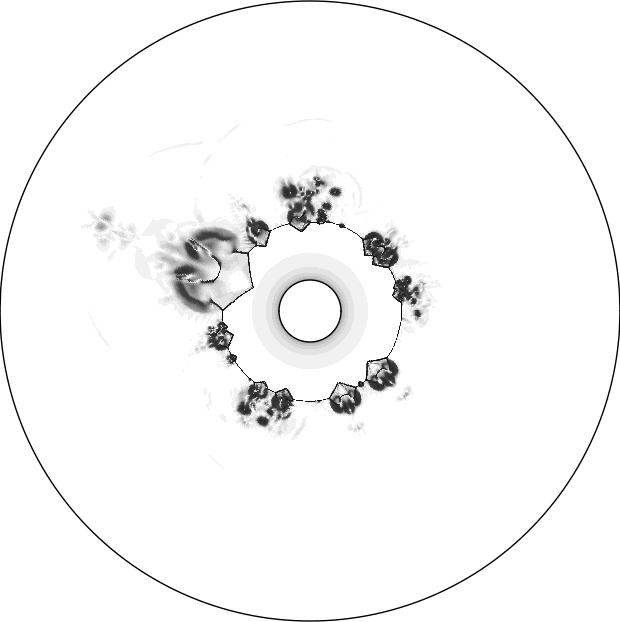
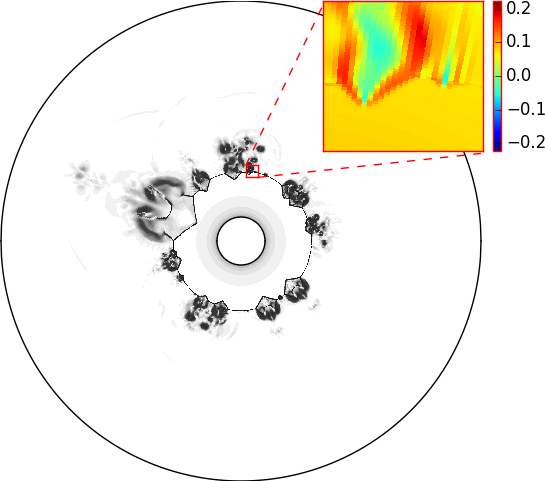
update paper (not finished yet)

diff --git a/numerics_paper/version2/numerical_chj.tex b/numerics_paper/version2/numerical_chj.tex
@@ -190,7 +190,6 @@ The system \eqref{eq:sw} can be written in vector form as
     q_t + f(q)_x + g(q)_y & = 0.
 \end{align}
 
-
 In this work we study the behavior of certain shock-capturing finite volume
 methods based on the use of Riemann solvers.  For simplicity, we discuss these
 solvers in the context of a 1-dimensional problem and mesh.  
@@ -215,7 +214,7 @@ Upon defining $z^+:=\frac{1}{2}(z+|z|)$ and $z^-:=\frac{1}{2}(z-|z|)$,
 the fluctuations are given by
 \begin{align}\label{fluct}
   \apdq_\imh := \sum_p\left(s_{i-1/2}^p\right)^+\W_{i-1/2}^p, \qquad
-  \amdq_\iph := \sum_p\left(s_{i+1/2}^p\right)^-\W_{i+1/2}^p, \\
+  \amdq_\iph := \sum_p\left(s_{i+1/2}^p\right)^-\W_{i+1/2}^p, 
 \end{align}
 and represent the effect (to first
 order accuracy) of waves coming from the solution of the Riemann problem at
@@ -257,7 +256,7 @@ Both of these solvers satisfy the conservation property
 
 
 \subsection{Rusanov's Riemann solver}\label{sec:rusanov}
-The Rusanov solver approximates the Riemann solution by with a single wave traveling in each
+The Rusanov's solver approximates the Riemann solution by with a single wave traveling in each
 direction.  Both waves are assumed to travel with speed $\lambda^{\max}_\imh$, which is an
 upper bound on the wave speeds appearing in the true solution of the Riemann problem.
 In this work, we take $\lambda_{i-1/2}^{\max}$ to be the upper bound
@@ -315,13 +314,13 @@ and $\W_{i-1/2}^{p,\Roe}=\alpha_{i-1/2}^p\hat r_{i-1/2}^p$, with
 \end{align*}
 and the factors $\alpha^p_\imh$ obtained by solving
 \begin{align}\label{system_for_alphas}
-  \left[\hat \bfr^1_{i-1/2} ~\hat \bfr^2_{i-1/2} ~\hat \bfr^3_{i-1/2}\right]
+  \sum_p\W_{i-1/2}^{p,\Roe} = \left[\hat \bfr^1_{i-1/2} ~\hat \bfr^2_{i-1/2} ~\hat \bfr^3_{i-1/2}\right]
   \begin{bmatrix}
     \alpha^1_{i-1/2} \\
     \alpha^2_{i-1/2} \\
     \alpha^3_{i-1/2}
   \end{bmatrix}
-  =\Delta Q_{i-1/2}:=q_i-q_{i-1}.
+  =\Delta Q_{i-1/2}:=\bfq_i-\bfq_{i-1}.
 \end{align}
 
 \subsection{HLLEMCC Riemann solver} \label{sec:kemm}
@@ -338,11 +337,11 @@ may need to be tuned for a specific problem.  We will consider this method
 in the numerical tests below.
 
 
-\section{An entropy-based blending of Rusanov and Roe}
+\section{An entropy-based blending of Rusanov and Roe}\label{sec:blended_rs}
 
 As we discussed in the introduction, finite volume methods that use a
 Roe Riemann solver are prone to exhibit the carbuncle instability.
-In contrast, methods that use a Rusanov Riemann solver exhibit no carbuncles. 
+In contrast, methods that use Rusanov's Riemann solver exhibit no carbuncles. 
 However, such methods tend to dissipate other important physical features of
 the solution, unless the grid is highly refined.
 In this section we propose a Riemann solver
@@ -505,12 +504,12 @@ to that of Roe.
 In fact, with the choice \eqref{s_p}, the correction fluxes also match
 those of Rusanov or Roe in the appropriate limit, as shown in the next section.
 
-\subsection{The correction fluxes}\label{sec:blended_rs}
+\subsection{The correction fluxes}
 In this section we explain the choice of wave speeds \eqref{s_p}.
 For the moment, we consider \eqref{blended-flux-1}-\eqref{lambda_p} without
 entropy stabilization; i.e. we set $\lambda^{\min}_\iph=0$
 for now.
-We use $\W^{p,\Rus}$ to denote the waves in the Rusanov
+We use $\W^{p,\Rus}$ to denote the waves in the Rusanov's
 solver and $\W^{p,\Roe}$ to denote the waves in the Roe solver.
 The first-order method given by \eqref{first-order_via_fluct} with the numerical
 flux \eqref{blended-flux-1} can also be written in
@@ -529,14 +528,14 @@ and we instead use \eqref{s_p}.
 Using this in \eqref{correction-fluxes} and \eqref{ev_fluctuations} in 
 \eqref{second-order_via_fluct}, we obtain (in the absence of limiting)
 the second-order scheme
-\begin{align*}
-  q_i^{n+1}=q_i^n
+\begin{align}\label{LWL}
+  \bfq_i^{n+1}=\bfq_i^n
   &-\frac{\Delta t}{2 \Delta x}
   \sum_p
   \left[\left(\hat\lambda_{i+1/2}^p -\frac{\Delta t}{\Delta x}(\lambda_{i+1/2}^p)^2 \right)\W_{i+1/2}^{p,\Roe}
   +
   \left(\hat\lambda_{i-1/2}^p +\frac{\Delta t}{\Delta x}(\lambda_{i-1/2}^p)^2 \right)\W_{i-1/2}^{p,\Roe}\right],
-\end{align*}
+\end{align}
 It is clear again that if $\theta_{i\pm 1/2}=0$ we recover the standard
 second-order Lax-Wendroff method based on Roe's Riemann solver.
 We now show that if $\theta_{i\pm 1/2}=1$, we recover the Lax-Wendroff method
@@ -549,7 +548,7 @@ To see this, first consider \eqref{rus_cons} and rewrite the right-going fluctua
   -\lambda_{i-1/2}^{\max}\W_{i-1/2}^{2,\Rus}.
   %\A^{+,\Rus}\Delta Q_{i-1/2}=\frac{1}{2}\sum_p\left(\hat \lambda_{i-1/2}^p + \lambda_{i-1/2}^{\max}\right)\W_{i-1/2}^p
 \end{align}
-From \eqref{system_for_alphas} and \eqref{rusanov_waves} we get
+From \eqref{rusanov_waves} and \eqref{system_for_alphas} we get
 $\W^{1,\Rus}_{i-1/2}+\W^{2,\Rus}_{i-1/2}=\bfq_i-\bfq_{i-1}=\sum_p\W_{i-1/2}^{p,\Roe}$.
 Using \eqref{rs_conservation} and \eqref{ev_fluctuations}, \eqref{rus_rs_aux} becomes
 \begin{align*}
@@ -559,7 +558,7 @@ Using \eqref{rs_conservation} and \eqref{ev_fluctuations}, \eqref{rus_rs_aux} be
 \end{align*}
 which implies that
 \begin{subequations}\label{fluct_rus}
-\begin{align}
+\begin{align} 
   \A^{+,\Rus}\Delta Q_{i-1/2}=\frac{1}{2}\sum_p\left(\hat \lambda_{i-1/2}^p + \lambda_{i-1/2}^{\max}\right)\W_{i-1/2}^{p,\Roe},
 \end{align}
 and similarly,
@@ -567,13 +566,16 @@ and similarly,
   \A^{-,\Rus}\Delta Q_{i+1/2}=\frac{1}{2}\sum_p\left(\hat \lambda_{i+1/2}^p - \lambda_{i+1/2}^{\max}\right)\W_{i+1/2}^{p,\Roe}.
 \end{align}
 \end{subequations}
-
+To get the second-order Lax-Wendroff method based on Rusanov's Riemann solver,
+plug the fluctuations \eqref{fluct_rus} into \eqref{second-order_via_fluct} where 
+$\tilde F_{i\pm 1/2}$ is given by \eqref{correction-fluxes} with $|s^p_{i\pm 1/2}|=\lambda_{i\pm 1/2}^{\max}$. 
+By doing this, we get \eqref{LWL} (since $\theta_{i\pm 1/2}=1 \implies \lambda_{i\pm 1/2}^p=\lambda_{i\pm 1/2}^{\max}$).
 
 \subsection{Entropy stabilization}\label{sec:entropy_stable}
 In the previous section we neglected the term $\lambda^{\min}_\iph$ in
-\eqref{blended-flux-1}.  In this section, we show how this term is computed,
-in order to guarantee local entropy stability of the scheme given by using
-\eqref{blended-flux-1} in \eqref{first-order_via_fluct}.
+\eqref{blended-flux-1}.  In this section, we follow \cite{kuzmin2020algebraic}
+and show how this term is computed, in order to guarantee local entropy stability
+of the scheme given by using \eqref{blended-flux-1} in \eqref{first-order_via_fluct}.
 
 Let $\entvar_i=\entvar(\bfq_i)$ and $\entflux_i=\entflux(\bfq_i)$ denote the entropy variable and the
 (one-dimensional) entropy flux at cell $i$, respectively.
@@ -594,7 +596,7 @@ where
 \end{align*}
 is the discrete entropy flux.
 
-After comparing \eqref{blended-flux-1} and the condition above, we arrive at the value
+After plugging \eqref{blended-flux-1} into the condition \eqref{es_cond}, we arrive at the value
 \begin{align}\label{lambda_min}
   \lambda_{i+1/2}^{\min} = \max\left\{0,\frac{\frac{1}{2}(\entvar_{i+1}-\entvar_{i})\cdot\left[\bff(\bfq_{i+1})+\bff(\bfq_{i})-\sum_p\lambda_{i+1/2}^p\W_{i+1/2}^p\right]-(\efp_{i+1}-\efp_i)}{\frac{1}{2}(\entvar_{i+1}-\entvar_{i})\cdot\sum_p\W_{i+1/2}^p}\right\}.
 \end{align}
@@ -649,26 +651,28 @@ $h_i$ is the cell average of the water height at cell $i$,
 and $h^e(\bfx_i)$ is the exact water height evaluated at the center of cell $i$.
 Since the methods under consideration are at most second order accurate, comparison
 of cell averages with centered point values is a sufficient way to test their accuracy.
+In all experiments we use $g=1$.
 
-We consider a total of six problems. We start in \S \ref{sec:rp_dry_bed} with a
+We consider a total of five problems. We start in \S \ref{sec:rp_dry_bed} with a
 one-dimensional Riemann problem over a dry bed.
 For this problem we use the first-order methods \eqref{first-order_via_fluct},
 to avoid negative depth values. Although only Rusanov's solver is proven to guarantee
 positivity, we do not get negative values for the water height with any of the first-order methods.
 In \S \ref{sec:rp_wet_bed} we apply the second-order methods to a dam-break problem
-with a wet bed.
+with a wet bed. This problem contains strong shocks. We observe similar accuracy with the
+blended solver or the Roe solver; this suggests that the extra numerical entropy
+dissipation that the blended solver introduces near the shocks does not degrade the accuracy
+of the underlying Roe solver. This extra dissipation, however, prevents the formation of carbuncles in other experiments,
+which we demonstrate in \S \ref{sec:bow_shock} and \S\ref{sec:2D_chj}.
 In \S \ref{sec:steady_outflow} we consider a one-dimensional problem with a smooth steady state solution. We observe the expected
 second-order accuracy of method \eqref{second-order_via_fluct} with Roe's and the blended solvers. Using
 Rusanov's Riemann solver degrades the accuracy to first-order. The overall accuracy of the blended solver
 is not degraded since the extra dissipation is not applied in smooth regions.
-In \S\ref{sec:rp_wet_bed} and \S\ref{sec:1D_chj} we consider one-dimensional problems with strong shocks. We observe similar accuracy with the
-blended solver or the Roe solver; this suggests that the numerical entropy
-dissipation near the shocks does not degrade the accuracy
-of the underlying Roe solver. This extra dissipation, however, prevents the formation of carbuncles in other experiments,
-which we demonstrate in \S \ref{sec:bow_shock} and \S\ref{sec:2D_chj}.
 The main focus of this work is in the formation of carbuncle instabilities in the two-dimensional CHJ. We present
 an extensive set of experiments for this problem in \S \ref{sec:2D_chj}.
-We consider not only Roe's, Rusanov's and the blended solvers, but also the HLLE solver and a solver proposed in \cite{kemm2014note},
+We consider not only Roe's, Rusanov's and the blended solvers,
+%but also the HLLE solver and a solver proposed in \cite{kemm2014note},
+but also the solver proposed in \cite{kemm2014note},
 which is designed to remove the carbuncle instabilities in the shallow water equations.
 
 \subsection{Dam break problem on a dry bed}\label{sec:rp_dry_bed}
@@ -685,7 +689,7 @@ The domain is given by $x\in(0,10)$, and the initial condition is $hu(x,0)=0$ an
     h_r & x >5,
   \end{cases}
 \end{align*}
-with $x_0=5$ and $h_l=5\times 10^{-3}$.  In our experiments we use $h_r=1\times
+with $h_l=5\times 10^{-3}$.  In our experiments we use $h_r=1\times
 10^{-15}$ to avoid division by zero.
 The exact solution, which can also be found in \cite{delestre2013swashes} and references therein, is
 \begin{align*}
@@ -698,13 +702,13 @@ The exact solution, which can also be found in \cite{delestre2013swashes} and re
 \quad
   u(x,t) =
   \begin{cases}
-    0, &\mbox{ if } x\leq x_-(t), \\
-    \frac{2}{3}\left(\sqrt{gh_l}+\frac{x-x_0}{t}\right), & \mbox{ if } x_-(t) < x\leq x_+(t), \\
-    0, &\mbox{ if } x_+(t)\leq x,
+    0, &\mbox{ if } x\leq x_A(t), \\
+    \frac{2}{3}\left(\sqrt{gh_l}+\frac{x-x_0}{t}\right), & \mbox{ if } x_A(t) < x\leq x_B(t), \\
+    0, &\mbox{ if } x_B(t) < x,
   \end{cases}
 \end{align*}
-with $x_-(t)=x_0 - t\sqrt{gh_l}$ and $x_+=x_0+2t\sqrt{gh_l}$.
-We take $g=1$ and solve the problem up to $t=10$.
+with $x_A(t)=x_0 - t\sqrt{gh_l}$ and $x_B=x_0+2t\sqrt{gh_l}$.
+We solve the problem up to $t=10$.
 In Figures \ref{fig:rp_dry_bed_roe}-\ref{fig:rp_dry_bed_blended},
 we show the solution using method \eqref{first-order_via_fluct}
 with Roe's solver, Rusanov's solver and the blended solver, respectively.
@@ -775,7 +779,7 @@ $hu(x,0)=0$ and
 \begin{align*}
   h(x,0) =
   \begin{cases}
-    h_l & x < x_0 \\
+    h_l & x \leq x_0 \\
     h_r & x > x_0
   \end{cases}
 \end{align*}
@@ -795,14 +799,14 @@ with $x_0=5$, $h_l=0.005$, and $h_r=0.001$.  The exact solution, which can be fo
     0, &\mbox{ if } x\leq x_A(t), \\
     \frac{2}{3}\left(\sqrt{gh_l}+\frac{x-x_0}{t}\right), & \mbox{ if } x_A(t) < x\leq x_B(t), \\
     2(\sqrt{gh_l}-c_m), & \mbox{ if } x_B(t)<x\leq x_C(t), \\
-    0, &\mbox{ if } x\leq x_C(t),
+    0, &\mbox{ if } x < x_C(t),
   \end{cases}
 \end{align*}
 where $x_A(t)=x_0-t\sqrt{gh_l}$, $x_B(t)=x_0+t\left(2\sqrt{gh_l}-3c_m\right)$,
 $x_C(t)=x_0+t\frac{2c_m^2\left(\sqrt{gh_l}-c_m\right)}{c_m^2-gh_r}$ and
 $c_m$ is the solution of
 $-8gh_rc_m^2\left(\sqrt{gh_l}-c_m\right)^2+\left(c_m^2-gh_r\right)^2\left(c_m^2+gh_r\right)=0$.
-We use $g=1$ and solve the problem up to the final time $t=5$ using the
+We solve the problem up to the final time $t=5$ using the
 second-order method \eqref{second-order_via_fluct}
 with Roe's, Rusanov's and the blended solvers. The solution with different refinement levels
 and each Riemann solver is shown in Figure \ref{fig:rp_wet_bed}.
@@ -921,8 +925,8 @@ Under rotational symmetry, the two-dimensional shallow water equations
 can be reduced to the system
 \begin{subequations} \label{eq:rsw}
 \begin{align}
-    (rh)_t + (rhu)_r & = 0 \label{mass1} \\
-    (rhu)_t + (rhu^2)_r + r \left(\frac{1}{2}gh^2\right)_r = 0, \label{mom1}
+    (rh)_t + (rhu)_r &= 0, \label{mass1} \\
+    (rhu)_t + (rhu^2)_r + r \left(\frac{1}{2}gh^2\right)_r &= 0, \label{mom1}
 \end{align}
 \end{subequations}
 where $r=\sqrt{x^2+y^2}$ is the radial coordinate.  Here we consider a problem
@@ -1014,29 +1018,30 @@ along with outflow conditions along the rest of the right edge of the domain.
 The depth and velocity are set initially and (for all time) at the other
 boundaries to $h_0=1$, $u_0=5$, for a Froude number of 5.  We use a $160 \times 400$
 uniform Cartesian grid.
-
-We show results at $t=80$, after the flow has reached
-a steady state.  With a Roe solver, negative values are generated at an early
+%
+In Figure \ref{fig:steady_outflow}, we show results at $t=80$, after the flow has reached
+a steady state.  With Roe's solver, negative values (of the water height) are generated at an early
 time, leading to failure of the solver.  Therefore, we show results only for
-HLLE, HLLEMCC, and the blended solver.  These three methods give very similar
+Rusanov's, HLLEMCC by \cite{kemm2014note}, and the blended solvers.  These three methods give very similar
 results.
 
 \begin{figure}[!h]
   {\scriptsize
-    \subfloat[HLLE Solver.]{\includegraphics[scale=0.4]{figures/cylinder_HLLE.png}}
+    %\subfloat[Rusanov's solver.]{\includegraphics[scale=0.4]{figures/cylinder_hlle.png}}
+    \subfloat[Rusanov's solver.]{\includegraphics[scale=0.4]{figures/cylinder_rusanov.png}}
     \quad \quad \quad \quad \quad \quad
-    \subfloat[HLLEMCC Solver.]{\includegraphics[scale=0.4]{figures/cylinder_HLLEMCC.png}}
+    \subfloat[HLLEMCC solver.]{\includegraphics[scale=0.4]{figures/cylinder_hllemcc.png}}
     \quad \quad \quad \quad \quad \quad
     \subfloat[Blended solver.]{\includegraphics[scale=0.4]{figures/cylinder_ES.png}}
   }
   \caption{
-    Flow past a cylinder.  Results for HLLE, HLLEMCC, and the blended solver.
+    Flow past a cylinder.  Results for Rusanov's, HLLEMCC, and the blended solvers.
     \label{fig:cylinder_flow}}
 \end{figure}
 
 We have also conducted a more challenging version of this test, in which
-the velocity within the domain is initially zero.  In that case, the HLLE
-and blended solvers give carbuncle-free results similar to Figure \ref{fig:steady_outflow},
+the velocity within the domain is initially zero.  In that case, Rusanov's 
+and the blended solvers give carbuncle-free results similar to Figure \ref{fig:steady_outflow},
 but HLLEMCC exhibits a carbuncle.
 
 \section{Numerical study of the circular hydraulic jump}
@@ -1160,7 +1165,7 @@ In Figure \ref{fig:chj_r1_roe}, we show the solution at different times using
 method \eqref{second-order_via_fluct} with Roe's Riemann solver.
 The solution clearly develops carbuncle instabilities.
 In Figure \ref{fig:chj_r1_diff}, we show solutions at $t=3$ for
-Rusanov's, Kemm's, and the blended Riemann solver.
+Rusanov's, HLLEMCC, and the blended Riemann solvers.
 For this test case, these three solvers give qualitatively similar solutions,
 all of which are free from carbuncles.
 %however, we expect Rusanov's solver to be less accurate. 
@@ -1169,24 +1174,24 @@ all of which are free from carbuncles.
   \centering
   \subfloat[Solution at (left) $t=1$, (middle) $t=1.5$ and (right) $t=3$ using Roe's Riemann solver.\label{fig:chj_r1_roe}]{
     \begin{tabular}{ccc} 
-      \includegraphics[scale=0.3]{figures/chj_r1_roe_p1.png} &
-      \includegraphics[scale=0.3]{figures/chj_r1_roe_p2.png} &
-      \includegraphics[scale=0.3]{figures/chj_r1_roe_p3.png}
+      \includegraphics[scale=0.38]{figures/chj_r1_roe_p1.png} &
+      \includegraphics[scale=0.38]{figures/chj_r1_roe_p2.png} &
+      \includegraphics[scale=0.38]{figures/chj_r1_roe_p3.png}
     \end{tabular}
   }
   
-  \subfloat[Solution at $t=3$ using (left) Rusanov's, (middle) Kemm's and (right) the blended solvers.\label{fig:chj_r1_diff}]{
+  \subfloat[Solution at $t=3$ using (left) Rusanov's, (middle) HLLEMCC and (right) the blended solvers.\label{fig:chj_r1_diff}]{
     \begin{tabular}{ccc}
-      \includegraphics[scale=0.3]{figures/chj_r1_llf_p3.png} &
-      \includegraphics[scale=0.5]{figures/cross.png} &
-      \includegraphics[scale=0.3]{figures/chj_r1_blended_p3.png}
+      \includegraphics[scale=0.38]{figures/chj_r1_llf_p3.png} &
+      \includegraphics[scale=0.38]{figures/chj_r1_hllemcc_p3.png} &
+      \includegraphics[scale=0.38]{figures/chj_r1_blended_p3.png}
     \end{tabular}
     }
     \caption{CHJ with boundary conditions given by \eqref{bcs_chj} and \eqref{bcs_chj_r1}.    
       We consider method \eqref{second-order_via_fluct} with different Riemann solvers.
       In all cases we show the Schlieren plot for the water height $h$.
-    %The color scale in the plots go from (blue) $0.0746$ to (red) $0.3738$,
-    %which corresponds to the minimum and maximum values of the momentum at $t=0$.
+      In (a), for the plot that corresponds to $t=3$, we zoom close to the jump
+      and plot the y-momentum. 
     \label{fig:chj_r1}}
 \end{figure}
 
@@ -1198,9 +1203,9 @@ We now consider a more aggresive regime. The boundary conditions are given by \e
 Again we follow \S \ref{sec:steady_chj} to generate an initial condition with a symmetric CHJ located at
 $\sqrt{x^2+y^2}=0.3$. In Figure \ref{fig:chj_r2_roe}, we show the solution at different times using method
 \eqref{second-order_via_fluct} with Roe's Riemann solver. Again the solution develops
-carbuncle instabilities.  In Figure \ref{fig:chj_r2_diff}, we 
-see that with Rusanov's, Kemm's and the blended solver, the carbuncles are avoided.
-{\color{red} TODO: finish this part depending on the results with Kemm's solver.}
+carbuncle instabilities. For this regime, we obtained negative values for the water height with
+the HLLEMCC solver, which lead to failure of the solver. Therefore, we only show results with
+Rusanov's and the blended solvers, see Figure \ref{fig:chj_r2_diff}. With both solvers, the carbuncles are avoided.
 %
 In contrast to what we observed in the first test case, in this situation the Froude number is
 high enough that numerical perturbations start to trigger a response around the CHJ
@@ -1222,11 +1227,11 @@ Clearly, using Rusanov's solver dissipates the physical response to these numeri
   }
 
   \vspace{10pt}
-  \subfloat[Solution at $t=0.1$ using (left) Rusanov's, (middle) Kemm's and (right) the blended solvers.\label{fig:chj_r2_diff}]{
+  \subfloat[Solution at $t=0.1$ using (left) Rusanov's and (right) the blended solvers.\label{fig:chj_r2_diff}]{
     \begin{tabular}{ccc}
-      \includegraphics[scale=0.3]{figures/chj_r2_llf_t0p1.png} &
-      \quad \includegraphics[scale=0.5]{figures/cross.png} \quad &
-      \includegraphics[scale=0.3]{figures/chj_r2_blended_t0p1.png}
+      \includegraphics[scale=0.3]{figures/chj_r2_llf_t0p1.png} \qquad &
+      %\quad \includegraphics[scale=0.5]{figures/cross.png} \quad &
+      \qquad \includegraphics[scale=0.3]{figures/chj_r2_blended_t0p1.png}
     \end{tabular}
     }
   \caption{CHJ with boundary conditions given by \eqref{bcs_chj} and \eqref{bcs_chj_r2}. 
@@ -1246,7 +1251,7 @@ Clearly, using Rusanov's solver dissipates the physical response to these numeri
   }
   \caption{CHJ at $t=5$ with boundary conditions given by \eqref{bcs_chj} and \eqref{bcs_chj_r2}. 
     We consider method \eqref{second-order_via_fluct} with (left) Rusanov's,
-    (middle) Kemm's and (right) the blended solvers. 
+    (middle) HLLEMCC and (right) the blended solvers. 
     In all cases we superimpose the Schlieren plot for the water height $h$
     an the magnitude of the momentum with a uniform (white-to-blue) colormap. 
     The scale for colormap is (white) $0.45$ to (blue) $4.5$, 
